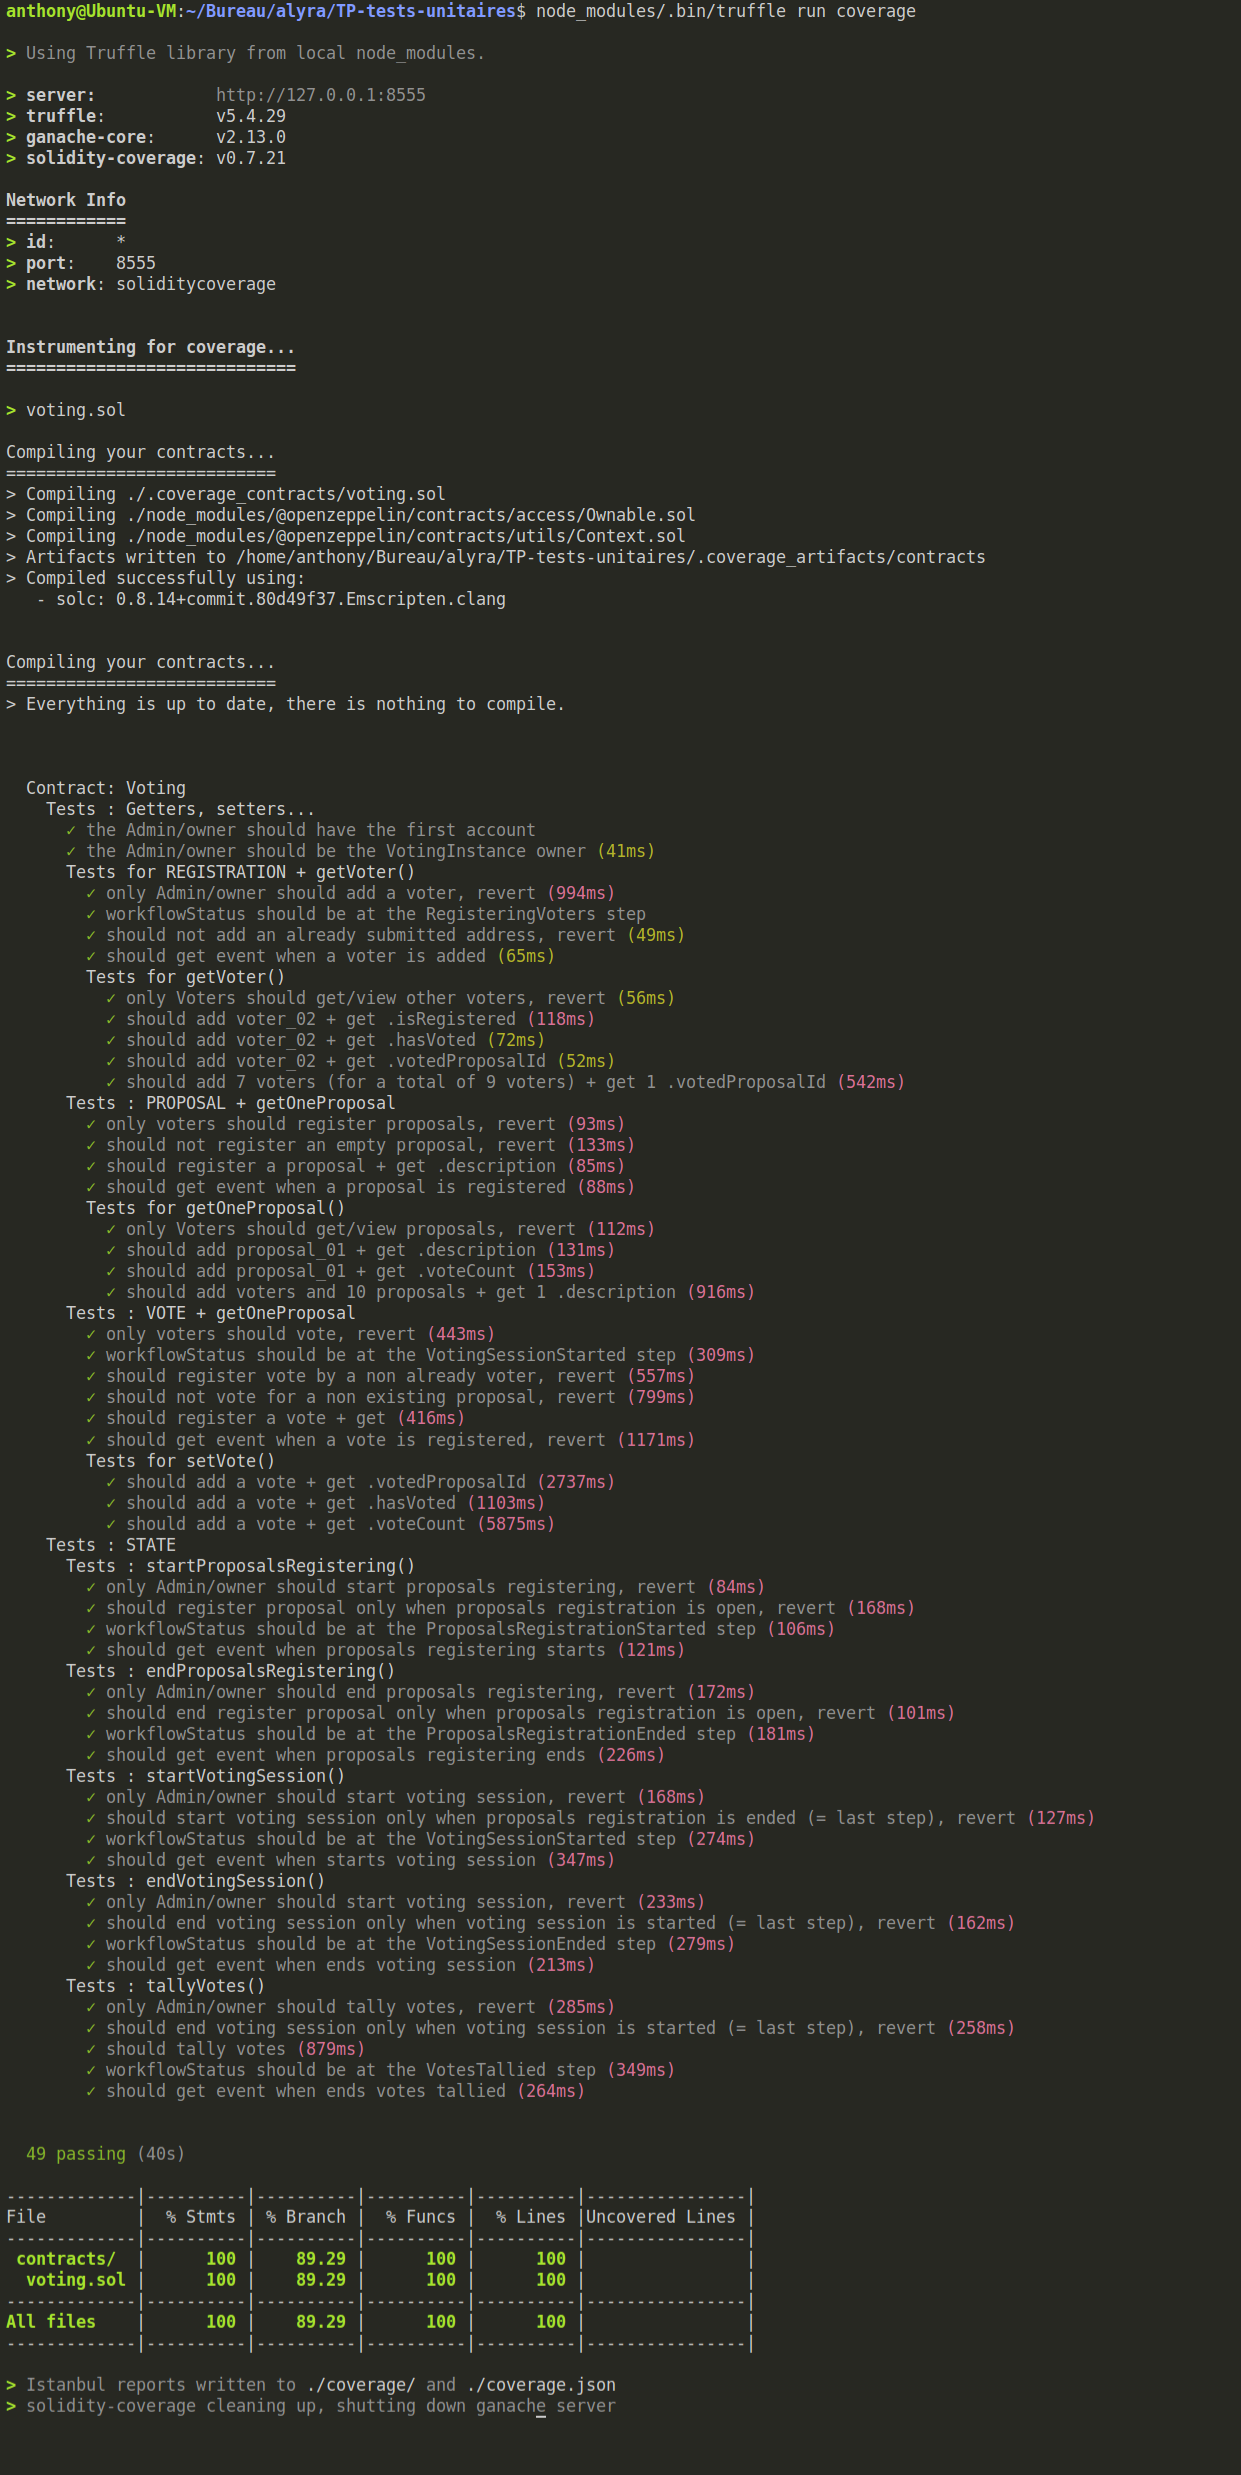
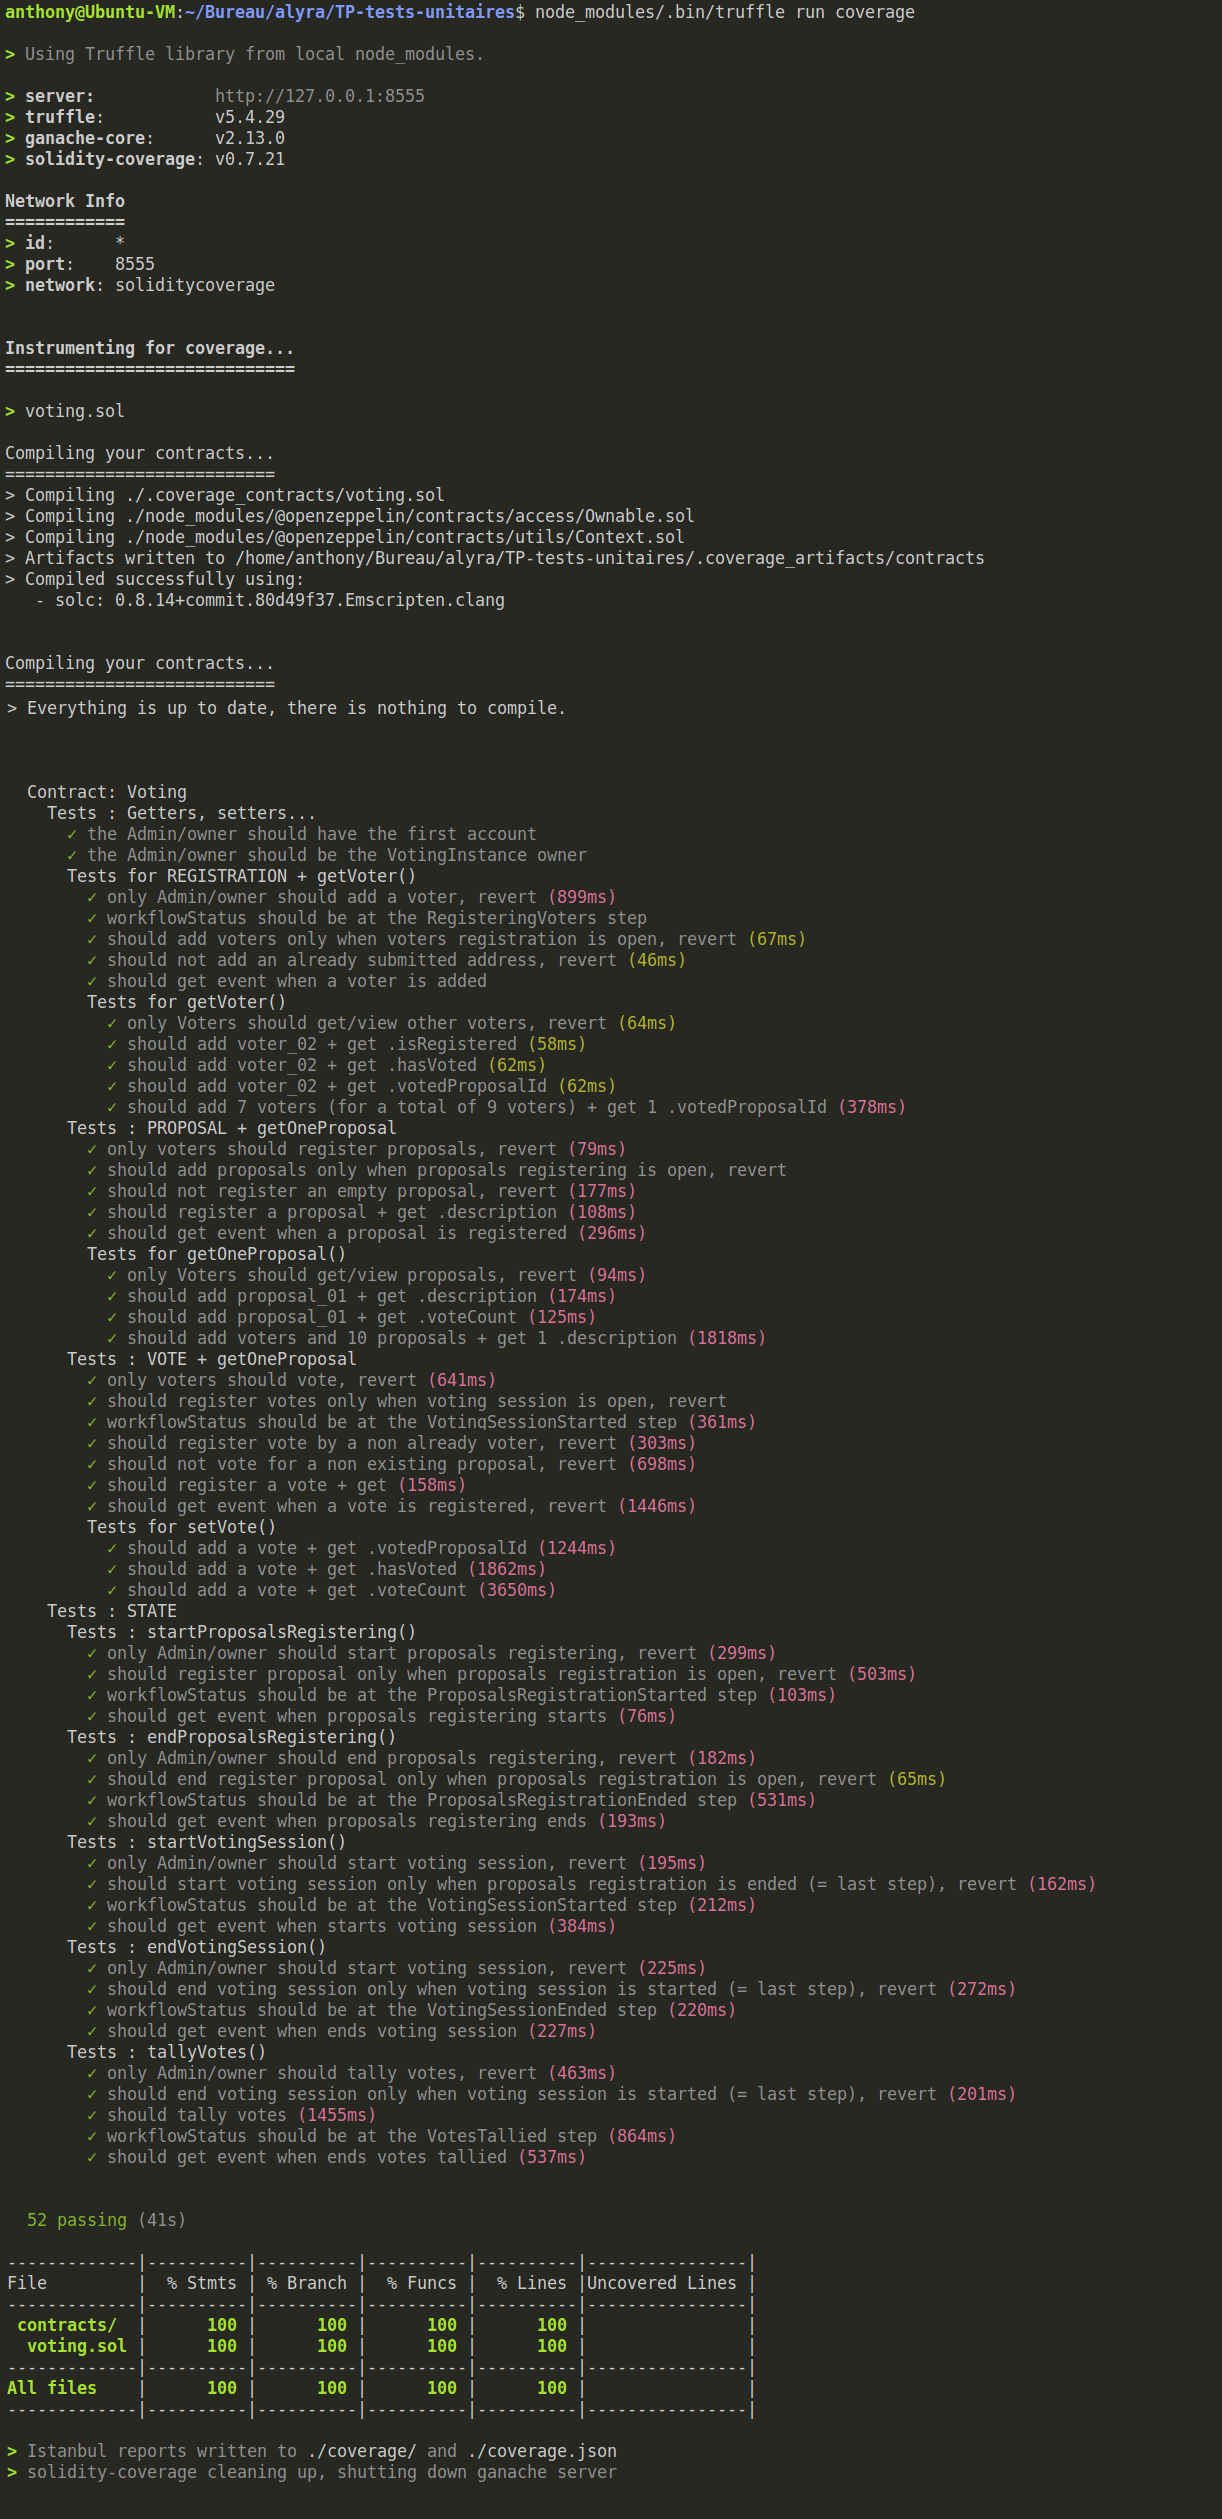
Version n°02

diff --git a/4. Truffle & CI-CD/testVoting.js b/4. Truffle & CI-CD/testVoting.js
@@ -1,4 +1,3 @@
-// const Voters = artifacts.require("./voting.sol");
 const votingArtifacts = artifacts.require("Voting");
 const { BN, expectRevert, expectEvent } = require('@openzeppelin/test-helpers');
 const { expect } = require('chai');
@@ -15,9 +14,7 @@ contract('Voting', accounts => {
     const voter_08 = accounts[8];
     const VoterHacker = accounts[9];
 
-    // const VotingInstance = await Voters.deployed();
     let VotingInstance;
-    var cpt = 0;
     let proposal_01 = "PROPOSAL_Blabla_1";
     let proposal_02 = "PROPOSAL_Blabla_2";
     let proposal_03 = "PROPOSAL_Blabla_3";
@@ -56,8 +53,14 @@ contract('Voting', accounts => {
                 expect(new BN(Status)).to.be.bignumber.equal(new BN(0));
             });
 
+            it("should add voters only when voters registration is open, revert", async () => {
+                await VotingInstance.startProposalsRegistering({from: adminOwner});
+                await expectRevert(VotingInstance.addVoter.call(voter_01, {from: adminOwner}), "Voters registration is not open yet");
+            });
+
+
             it("should not add an already submitted address, revert", async () => {
-            await expectRevert(VotingInstance.addVoter(voter_01, { from: adminOwner }), "Already registered");
+                await expectRevert(VotingInstance.addVoter(voter_01, { from: adminOwner }), "Already registered");
             });
 
             it("should get event when a voter is added", async () => {
@@ -66,14 +69,6 @@ contract('Voting', accounts => {
             });
             
             context("Tests for getVoter()", () => {
-        /*
-                // check type address _addr / getVoter
-                // check type return voters[_addr] / getVoter
-                it("should be address type, revert", async () => {
-                    await VotingInstance.addVoter(voter_02, { from: adminOwner });
-                    await expectRevert(VotingInstance.getVoter("BadAddressType", { from: VoterHacker }), "Error: invalid address");
-                });
-        */
 
                 it("only Voters should get/view other voters, revert", async () => {
                     await VotingInstance.addVoter(voter_02, { from: adminOwner });
@@ -112,12 +107,6 @@ contract('Voting', accounts => {
                     expect(new BN(storedData.votedProposalId)).to.be.bignumber.equal(new BN(0));
                 });
 
-                // it("should not get a non existing voter, revert", async () => {
-                //     await VotingInstance.addVoter(voter_02, { from: adminOwner });
-                //     await VotingInstance.addVoter(voter_03, { from: adminOwner });
-                //     await expectRevert.unspecified(VotingInstance.getVoter(VoterHacker, { from: voter_02 }));
-                // });
-
             });
         });
 
@@ -129,6 +118,11 @@ contract('Voting', accounts => {
 
                 await expectRevert(VotingInstance.addProposal("Proposal from Hacker", { from: VoterHacker }), "You're not a voter");
             });
+
+            it("should add proposals only when proposals registering is open, revert", async () => {
+                await expectRevert(VotingInstance.addProposal.call(proposal_01, { from: voter_01 }), "Proposals are not allowed yet");
+            });
+
 
             it("should not register an empty proposal, revert", async () => {
                 await VotingInstance.addVoter(voter_02, { from: adminOwner });
@@ -220,6 +214,10 @@ contract('Voting', accounts => {
                 await expectRevert(VotingInstance.setVote(0, { from: VoterHacker }), "You're not a voter"); // Proposal id = 0.
             });
 
+            it("should register votes only when voting session is open, revert", async () => {
+                await expectRevert(VotingInstance.setVote.call(0, { from: voter_01 }), "Voting session havent started yet");
+            });
+
             it("workflowStatus should be at the VotingSessionStarted step", async () => {
                 await VotingInstance.startProposalsRegistering({from: adminOwner});
                 await VotingInstance.addProposal(proposal_01, { from: voter_01 });
@@ -249,7 +247,6 @@ contract('Voting', accounts => {
                 await VotingInstance.endProposalsRegistering({from: adminOwner});
                 await VotingInstance.startVotingSession({from: adminOwner});
 
-                // await expectRevert(VotingInstance.setVote(3, {from: voter_01}), "Proposal not found"); // 3 = id of non existing proposal.
                 await expectRevert.unspecified(VotingInstance.setVote(3, {from: voter_01}));
             });
 
@@ -425,6 +422,8 @@ contract('Voting', accounts => {
                 await expectRevert(VotingInstance.endVotingSession({from: adminOwner}), "Voting session havent started yet");
             });
 
+
+
             it("workflowStatus should be at the VotingSessionEnded step", async () => {
                 await VotingInstance.startProposalsRegistering({from: adminOwner});
                 await VotingInstance.endProposalsRegistering({from: adminOwner});
@@ -440,7 +439,6 @@ contract('Voting', accounts => {
                 await VotingInstance.startProposalsRegistering({from: adminOwner});
                 await VotingInstance.endProposalsRegistering({from: adminOwner});
                 await VotingInstance.startVotingSession({from: adminOwner});
-                // await VotingInstance.endVotingSession({from: adminOwner});
 
                 const findEvent = await VotingInstance.endVotingSession({from: adminOwner});
                 expectEvent(findEvent, 'WorkflowStatusChange', { previousStatus: new BN(3), newStatus: new BN(4) });
